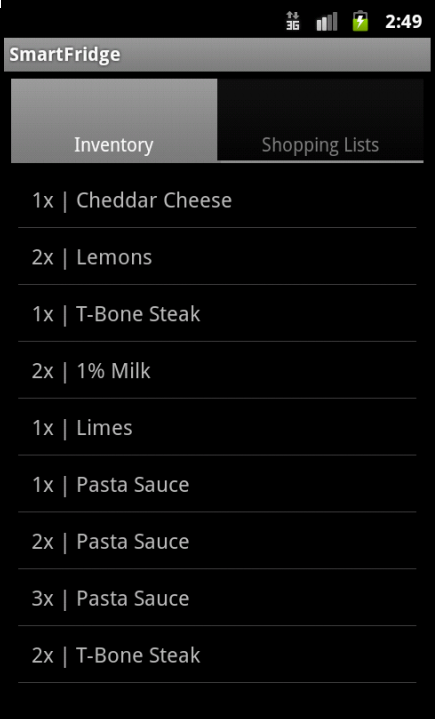
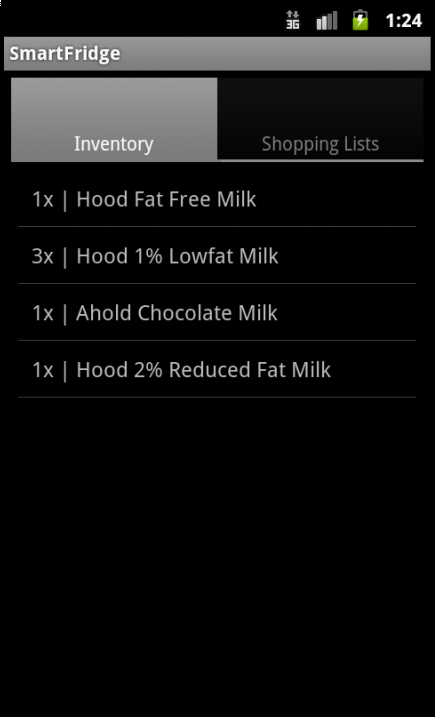
Back to using the Rest connect, fixed a couple bugs. Updated images.

diff --git a/code/mobile/smartFridge/src/edu/rit/smartFridge/util/RestConnect.java b/code/mobile/smartFridge/src/edu/rit/smartFridge/util/RestConnect.java
@@ -149,7 +149,8 @@ public class RestConnect implements DataConnect
 					JSONObject jsonData = jArray.getJSONObject(i);
 					listID = jsonData.getLong("listId");
 					listName = jsonData.getString("name");
-					autoGen = jsonData.getBoolean("autoGeneratedFlag");
+					int genFlag = jsonData.getInt("autoGeneratedFlag");
+					autoGen = (genFlag == 1);
 
 					shoppingLists.add(new ShoppingList(listName, autoGen,
 							listID));

diff --git a/code/mobile/smartFridge/src/edu/rit/smartFridge/ItemListActivity.java b/code/mobile/smartFridge/src/edu/rit/smartFridge/ItemListActivity.java
@@ -43,7 +43,7 @@ public class ItemListActivity extends ListActivity
 		Bundle extras = getIntent().getExtras();
 		if (extras != null)
 		{
-			int listId = extras.getInt(getString(R.string.current_list));
+			long listId = extras.getLong(getString(R.string.current_list));
 			shoppingList = connecter.getList(listId);
 		}
 

diff --git a/code/mobile/smartFridge/src/edu/rit/smartFridge/ShoppingListActivity.java b/code/mobile/smartFridge/src/edu/rit/smartFridge/ShoppingListActivity.java
@@ -84,6 +84,8 @@ public class ShoppingListActivity extends ListActivity
 				}
 			}
 		});
+		
+		// long click stuff
 		lv.setLongClickable(true);
 		lv.setOnItemLongClickListener(new OnItemLongClickListener() {
 			public boolean onItemLongClick(AdapterView<?> parent, View v,

diff --git a/code/mobile/smartFridge/src/edu/rit/smartFridge/util/Connector.java b/code/mobile/smartFridge/src/edu/rit/smartFridge/util/Connector.java
@@ -23,7 +23,7 @@ public class Connector
 	{
 		if (instance == null)
 		{
-			instance = new TestConnect();
+			instance = new RestConnect();
 		}
 		return instance;
 	}
